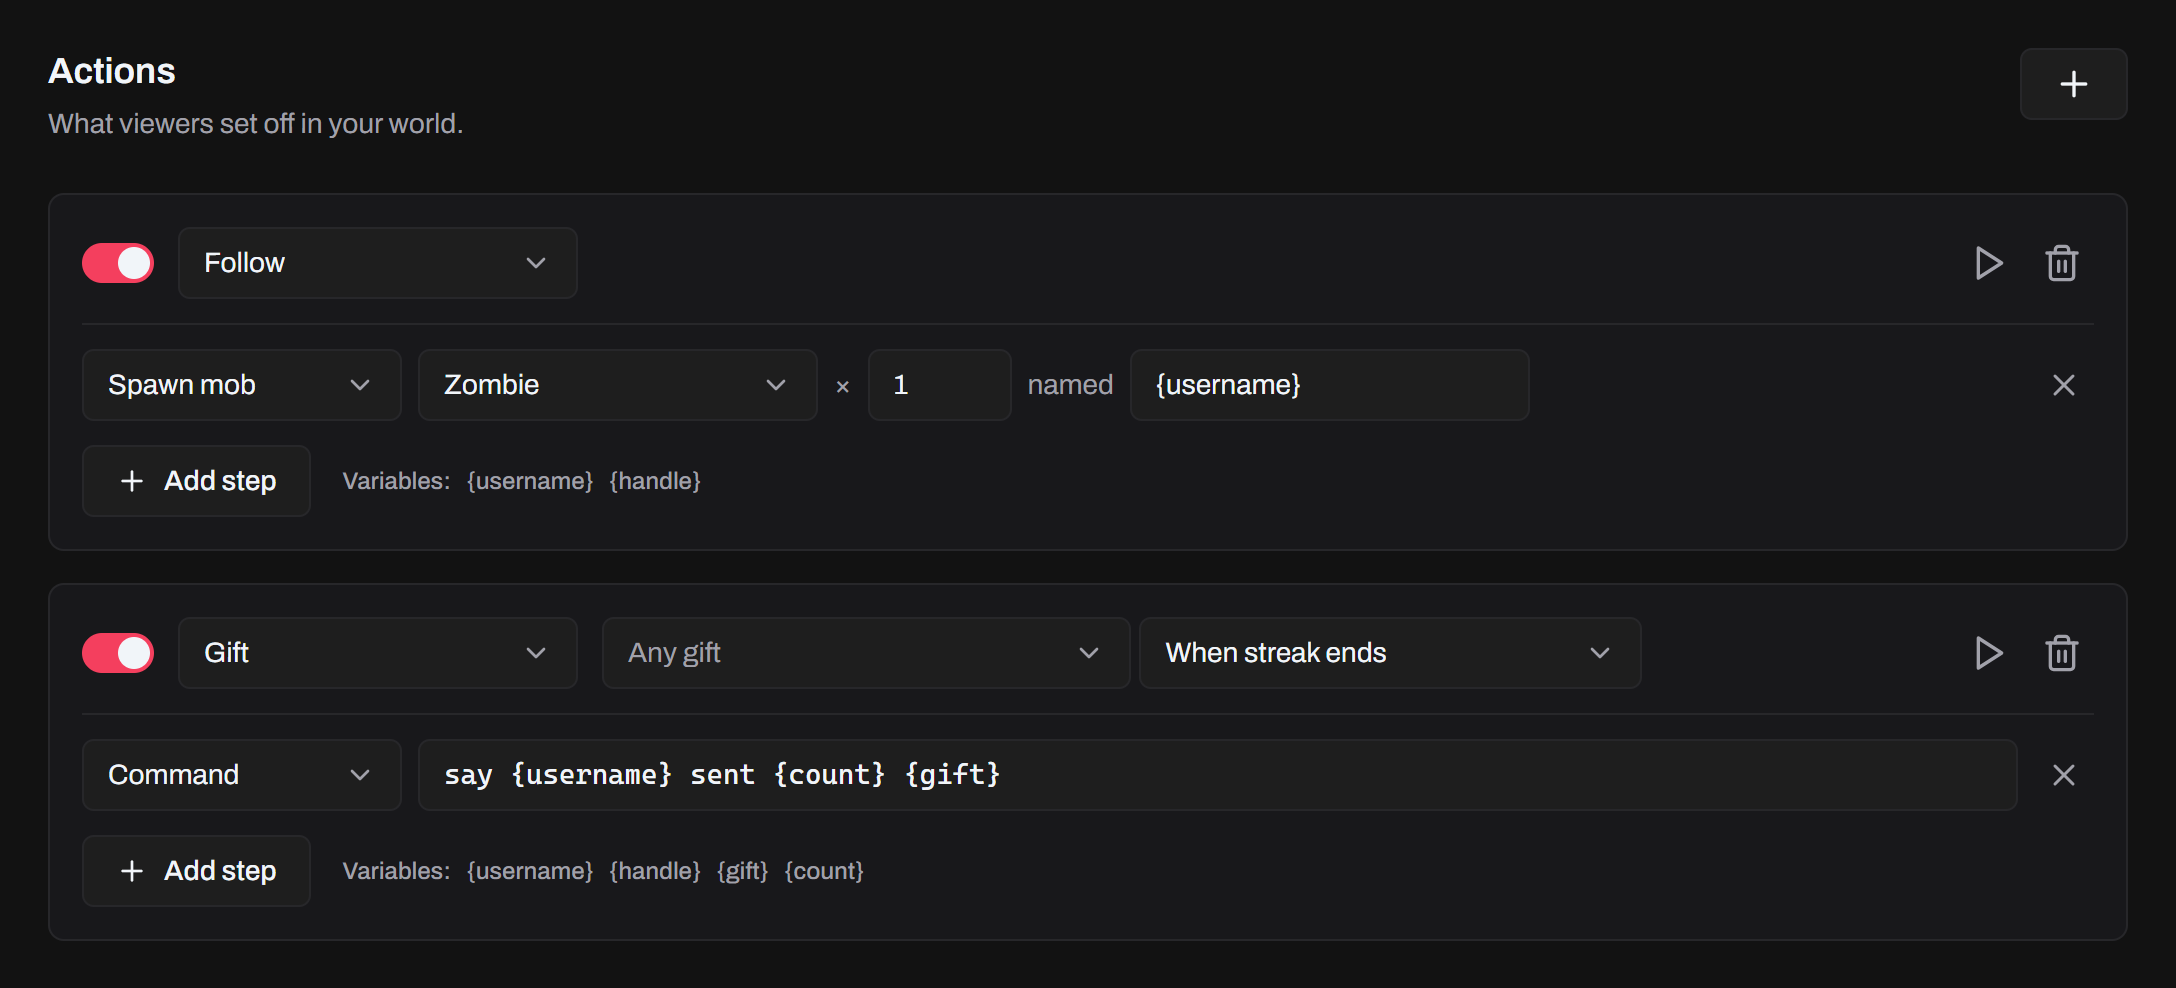
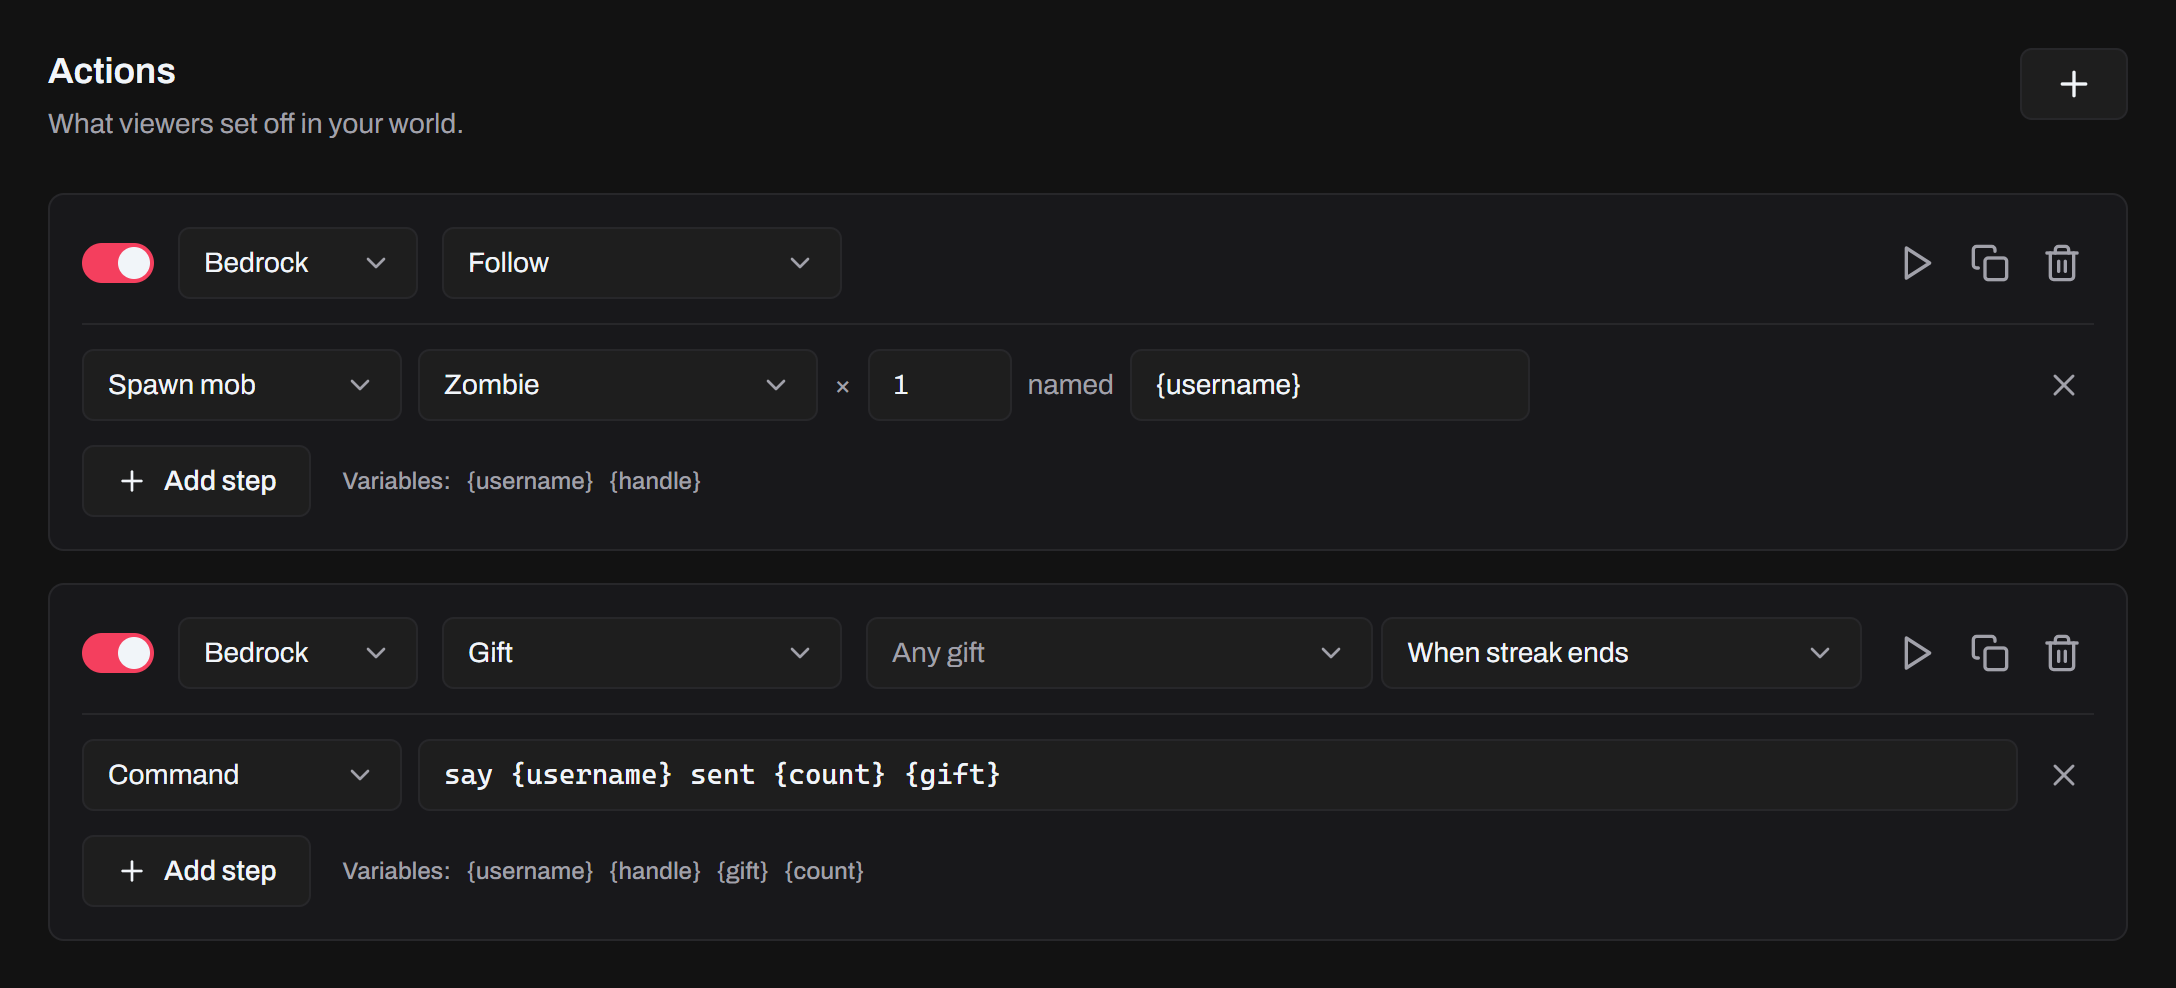
docs: describe Minecraft Java Edition and the Tokio mod
The Games page covers both editions: installing the Tokio mod for
Java 26.3 with Fabric, connecting with /tokio connect, its commands
and what its chat says when the connection ends. Actions get the
Edition picker, moving between editions and Duplicate, and both
screenshots are retaken.

diff --git a/src/content/docs/docs/features/games.md b/src/content/docs/docs/features/games.md
@@ -5,42 +5,95 @@ description: Let your LIVE spawn mobs, give items and run commands in Minecraft.
 
 Let viewers do things in your Minecraft world: a gift spawns a mob, a follow gives you an item, a chat keyword changes the weather. Connect the game and make your actions on the **Games** page.
 
-Tokio supports **Minecraft Bedrock Edition** for now. Java Edition can't connect yet.
+Tokio works with **Minecraft Bedrock Edition** and **Minecraft Java Edition**. Bedrock connects by itself. Java needs the Tokio mod. Both connect from the game's own chat, and Tokio takes one game at a time: when another one connects, it replaces the first.
 
 ## Connect Minecraft
 
-Minecraft connects to Tokio, from its own chat. You need a world with cheats on, and one setting changed once.
+1. In Tokio, open **Games** and turn on **Minecraft**. The status reads **Waiting for Minecraft**.
+2. Follow your edition's steps below.
+3. Type the command shown on the page in the game's chat. Click it on the page to copy it.
+
+Until a game connects, the page shows the setup for both editions side by side, each with its steps and its command. The command has your PC's address.
+
+![The Minecraft section while it waits for the game: the steps and the command to type for Bedrock Edition and for Java Edition](../../../../assets/screenshots/games-connect.png)
+
+When the game connects, the status says **Connected to Bedrock Edition** or **Connected to Java Edition**, and the setup steps go away.
+
+Tokio listens for the game only while **Minecraft** is on. It's off until you turn it on, and the switch is the same for all profiles.
+
+## Bedrock Edition
+
+Bedrock needs a world with cheats on, and one setting changed once.
 
 1. In Minecraft, open **Settings → General → Network settings** and turn on **Enable WebSockets**. **Require Encrypted WebSockets** can stay on.
-2. In Tokio, open **Games** and turn on **Minecraft**. The status reads **Waiting for Minecraft**.
-3. Open a world with cheats on.
-4. Type the command shown on the page in the game's chat. Click it on the page to copy it. It has your PC's address, like this one:
+2. Open a world with cheats on.
+3. Type the command shown on the page in the game's chat, like this one:
 
 ```
 /connect 192.168.1.20:37892
 ```
 
-The status changes to **Connected**, and the setup steps go away. When you leave the world, the connection ends and the status goes back to **Waiting for Minecraft**: type the command again next time.
+When you leave the world, the connection ends and the status goes back to **Waiting for Minecraft**: type the command again next time.
 
-![The Minecraft section while it waits for the game: the steps, then the command to type](../../../../assets/screenshots/games-connect.png)
-
-Tokio listens for the game only while **Minecraft** is on. It's off until you turn it on, and the switch is the same for all profiles.
-
-### Another device
-
-The same command works when Minecraft runs on another device, like a phone, on the same network as your PC. If your PC has more than one address, the page shows a command for each: use the one on your device's network.
-
-### If it doesn't connect
+If it doesn't connect:
 
 - The status says **Port 37892 is in use**: another program holds the port. Close it, then turn **Minecraft** off and on.
 - The game says WebSockets are off: turn on **Enable WebSockets**, as in step 1.
 - The game won't take the command: the world needs cheats on.
 
+## Java Edition
+
+Java Edition connects through the Tokio mod, a mod for Fabric. It works in single-player worlds, and in LAN worlds you host. It doesn't work on dedicated servers. Cheats aren't needed: the mod runs Tokio's commands as you, where you stand, with the permission a command block has. Their answers don't show in the game's chat.
+
+### Install the mod
+
+You do this once. The mod is for Minecraft Java **26.3**.
+
+1. Install [Fabric Loader](https://fabricmc.net/use/installer/) for Minecraft 26.3.
+2. Download [Fabric API](https://modrinth.com/mod/fabric-api) for 26.3 and put it in Minecraft's `mods` folder.
+3. Download the Tokio mod's `.jar` from its [releases page](https://github.com/tokio-app/minecraft-mod/releases/latest) and put it in the same `mods` folder.
+4. Start Minecraft with the Fabric profile.
+
+### Connect
+
+1. In Tokio, open **Games** and turn on **Minecraft**.
+2. Open a world. Cheats can stay off.
+3. Type the command shown on the page in the game's chat, like this one:
+
+```
+/tokio connect 192.168.1.20:37892
+```
+
+On the same PC as Tokio, `/tokio connect` is enough. The mod never reconnects by itself: type the command again each time you open the world.
+
+| Command                    | What it does                                       |
+| -------------------------- | -------------------------------------------------- |
+| `/tokio`                   | Says whether the world is connected to Tokio       |
+| `/tokio connect [address]` | Connects to Tokio, at `localhost:37892` by default |
+| `/tokio disconnect`        | Disconnects from Tokio                             |
+
+Only the world's host can use them.
+
+### If it doesn't connect
+
+- The game doesn't know `/tokio`: the mod isn't loaded. Check that Minecraft runs with the Fabric profile, and that Fabric API and the Tokio mod are in the `mods` folder.
+- The chat says **Couldn't connect to Tokio at …**: turn on **Minecraft** in Tokio, and check that the address in the command is one of your PC's addresses, as the page shows them.
+- The chat says **Disconnected from Tokio.** with a reason. **Another game connected to Tokio.** means another game replaced this one. **Minecraft was turned off in Tokio.** means the switch on the **Games** page was turned off. Type `/tokio connect` again to come back.
+- A guest in your LAN world can't use the commands: only the host can.
+
+## Another device
+
+The same command works when Minecraft runs on another device on the same network as your PC, like a phone for Bedrock, or another PC for Java. If your PC has more than one address, the page shows a command for each: use the one on your device's network.
+
 ## Actions
 
-An action is a trigger and the steps that run when it happens. Click **+** next to **Actions** to add one, then pick its trigger and its steps. Each action has its own switch, a **Test** button and a button to remove it. Actions belong to the profile.
+An action is a trigger and the steps that run when it happens. Click **+** next to **Actions** to add one, then pick its edition, its trigger and its steps. Each action has its own switch, an **Edition** picker, a **Test** button, a **Duplicate** button and a button to remove it. Actions belong to the profile.
 
-![Two actions: a follow that spawns a zombie named after the viewer, and a gift that says a message in the game's chat](../../../../assets/screenshots/games-actions.png)
+![Two actions, each with its switch, edition, trigger, and buttons to test, duplicate and remove it: a follow that spawns a zombie named after the viewer, and a gift that says a message in the game's chat](../../../../assets/screenshots/games-actions.png)
+
+An action is for one edition, **Bedrock** or **Java**. New actions take the edition of the game that's connected, or Bedrock when none is. The mob and item lists show that edition's own. When you change an action's edition, Tokio moves its mobs and items to the other edition's, by their English name. One with no match becomes a zombie, or a diamond for an item.
+
+**Duplicate** copies an action and puts the copy right after it. Change the copy's edition to run the same steps in the other game.
 
 Triggers and their filters are the same as for [alerts](/docs/features/alerts/#triggers): Chat, Emote, Follow, Share, Like, Gift, Envelope, Super Fan, Super Fan Box, Super Fan Join, Member Join and Music Change.
 
@@ -49,11 +102,11 @@ Triggers and their filters are the same as for [alerts](/docs/features/alerts/#t
 - **Member Join** and **Super Fan Join**: type an @handle or name to run only for that viewer.
 - **Emote**: pick the emotes, or leave it for any.
 
-Actions run while **Minecraft** is on, whether or not the features on **Home** are. With a game not connected, they do nothing.
+Actions run while **Minecraft** is on, whether or not the features on **Home** are. An action runs only while a game of its edition is connected: a Java action does nothing while Bedrock is connected, and the other way round.
 
 ## Steps
 
-Steps run in order, as the player who typed the command. Click **Add step** to add one.
+Steps run in order, as the player in the game. Click **Add step** to add one.
 
 - **Spawn mob**: pick a mob, how many (1 to 100), and an optional name. The mobs appear where you stand.
 - **Give item**: pick an item and how many (1 to 100). You get it.
@@ -65,7 +118,7 @@ Steps run in order, as the player who typed the command. Click **Add step** to a
 say {username} sent {count} {gift}!
 ```
 
-A mob or item that doesn't exist in the game runs nothing.
+A command step runs as you typed it, so write it for the action's edition: some commands differ between Bedrock and Java. A mob or item that doesn't exist in the game runs nothing.
 
 ## Variables
 
@@ -83,7 +136,7 @@ Viewers choose their own names and messages, so Tokio cleans what a variable add
 
 The play button on an action runs its steps once with sample values, like a made-up viewer. Below the steps, Tokio says how many commands ran, or how many failed, and lists the last 25 with the game's answer to each. A command the game refuses shows in red, and the game answers in its own language. Click the line with the count to fold the list, or to open it again.
 
-Test needs a connected game. Without one it says to turn on Minecraft and connect the game first.
+Test needs a connected game of the action's edition. With no game connected, it says to turn on Minecraft and connect the game first. With the other edition connected, it says to connect Minecraft Java Edition first, or Bedrock Edition.
 
 ## Limits
 
@@ -95,10 +148,6 @@ Test needs a connected game. Without one it says to turn on Minecraft and connec
 
 Tokio tells you in a notice when something doesn't work.
 
-- **Minecraft isn't connected**: an action ran while **Minecraft** was on and no game was connected. It shows at most once a minute.
+- **Minecraft Java Edition isn't connected** (or **Bedrock Edition**): an action ran while **Minecraft** was on and no game of its edition was connected. The notice says to type the `/tokio connect` command, or `/connect` for Bedrock, from **Games** in the game's chat. It shows at most once a minute.
 - **A command failed in Minecraft**: the game refused a command, with its answer, like a mob that can't spawn there. It shows at most once every 30 seconds for each action.
 - **Tokio couldn't listen for Minecraft**: the port was in use when Tokio started.
-
-## Java Edition
-
-Java Edition can't connect to Tokio yet. It would need a mod to join, and that doesn't exist yet.
